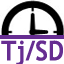
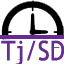
Se agrego el feed del clima en el html, y js; al igual se modifica el icono, se agrega link al manifest, y los estilos para el clima.

diff --git a/popup.js b/popup.js
@@ -1,6 +1,7 @@
 $(document).ready(function() {
 //RSS SanYsidro-Otay http://apps.cbp.gov/bwt/customize_rss.asp?portList=250601,250401&lane=all&action=rss&f=html
 //RSS Clima Tijuana http://rss.weather.com/weather/rss/local/MXBC0005?cm_ven=LWO&cm_cat=rss&par=LWO_rss
+//RSS Clima Tijuana Esp http://espanol.weather.com/rss-Tijuana-MXBC0005
   $.ajax({
     type: 'POST',
     url: 'http://apps.cbp.gov/bwt/customize_rss.asp?portList=250601,250401&lane=all&action=rss&f=html',
@@ -20,7 +21,30 @@ $(document).ready(function() {
     },
     error:function(){
       //Failed request
-      $('#div_ajax').html('<p class="alert alert-error">Error!</p>');
+      $('#div_ajax').html('<p class="alert alert-error">Error al cargar las garitas!</p>');
+    }
+  });
+
+    $.ajax({
+    type: 'POST',
+    url: 'http://rss.weather.com/weather/rss/local/MXBC0005?cm_ven=LWO&cm_cat=rss&par=LWO_rss',
+    cache: false,  
+
+    beforeSend:function(){
+      //Loading image
+      $('#estado').html('<div class="loading"><img src="images/loading.gif" alt="Cargando..." /></div>');
+    },
+    success:function(data){
+      //Successful request
+      $('#div_clima').empty();
+      $('#estado').empty();
+      
+      $('#div_clima').append(clima(data));
+    
+    },
+    error:function(){
+      //Failed request
+      $('#div_clima').html('<p class="alert alert-error">Error al cargar clima!</p>');
     }
   });
 
@@ -59,6 +83,11 @@ $(document).ready(function() {
 
   }
 
+  function clima(data){
+      var info= $(data).find('item').text();
+      var forecast = info.slice(info.indexOf('_rss')+4, info.indexOf('For'));
+      return forecast
+  }
 
 });
 

diff --git a/popup.html b/popup.html
@@ -1,27 +1,29 @@
 <!DOCTYPE html>
-<HTML lang="es">
-	<HEAD>
-		<TITLE>
-			HOLA MUNDO
-		</TITLE>
+<html lang="es">
+	<head>
+		<title>
+			Reporte de Garitas
+		</title>
 		<script src="jquery-1.8.2.min.js" ></script>
 		<script src="popup.js"></script>
-		<LINK rel="stylesheet" href="estilo.css" type="text/css"/>
+		<link rel="stylesheet" href="estilo.css" type="text/css"/>
 		<link rel="stylesheet" href="bootstrap.min.css" type="text/css"/>
-	</HEAD>
-	<BODY>
+	</head>
+	<body>
 		<header>
 			Reporte de Garitas Tj-SD
 		</header>
 		<div id="estado">
 
 		</div>
-		<DIV id="div_ajax">
+		<div id="div_ajax">
 			
-		</DIV>
+		</div>
+		<div id="div_clima">
+		</div>
 		<footer>
 			Datos proporcionados por <a href="http://apps.cbp.gov/bwt/">CBP</a>
 		</footer>
-	</BODY>
+	</body>
 
-</HTML>
+</html>

diff --git a/estilo.css b/estilo.css
@@ -24,10 +24,18 @@ header{
 	font-weight: bold;
 }
 
+footer{
+	font-size: 1em;
+}
 
 
 #estado{
 	color:red;
+}
+
+#div_clima{
+	color:#7A7A7A;
+	font-size: 1em;
 }
 
 .titulo{
